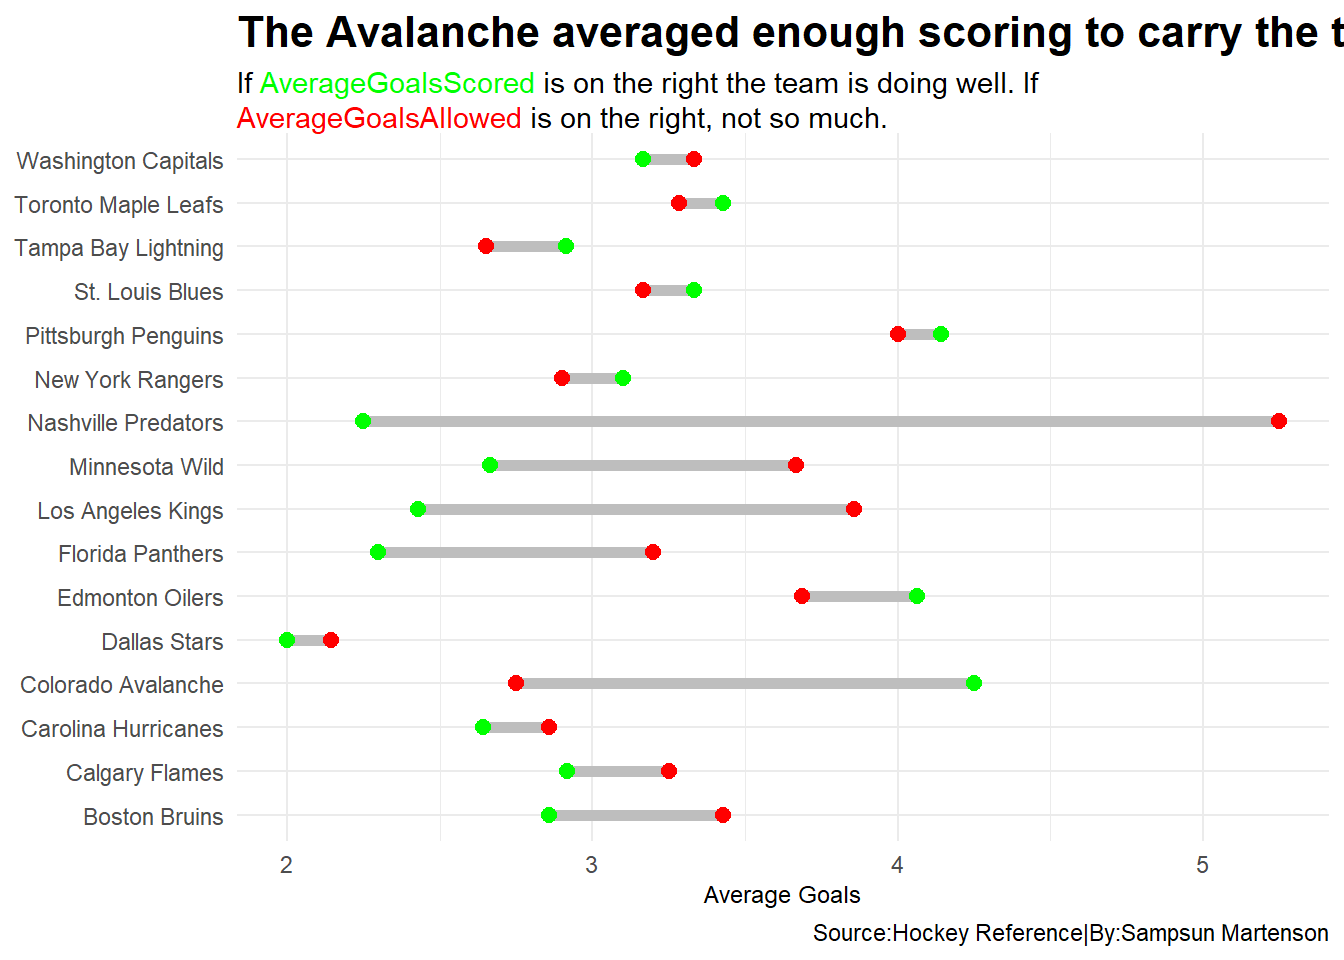
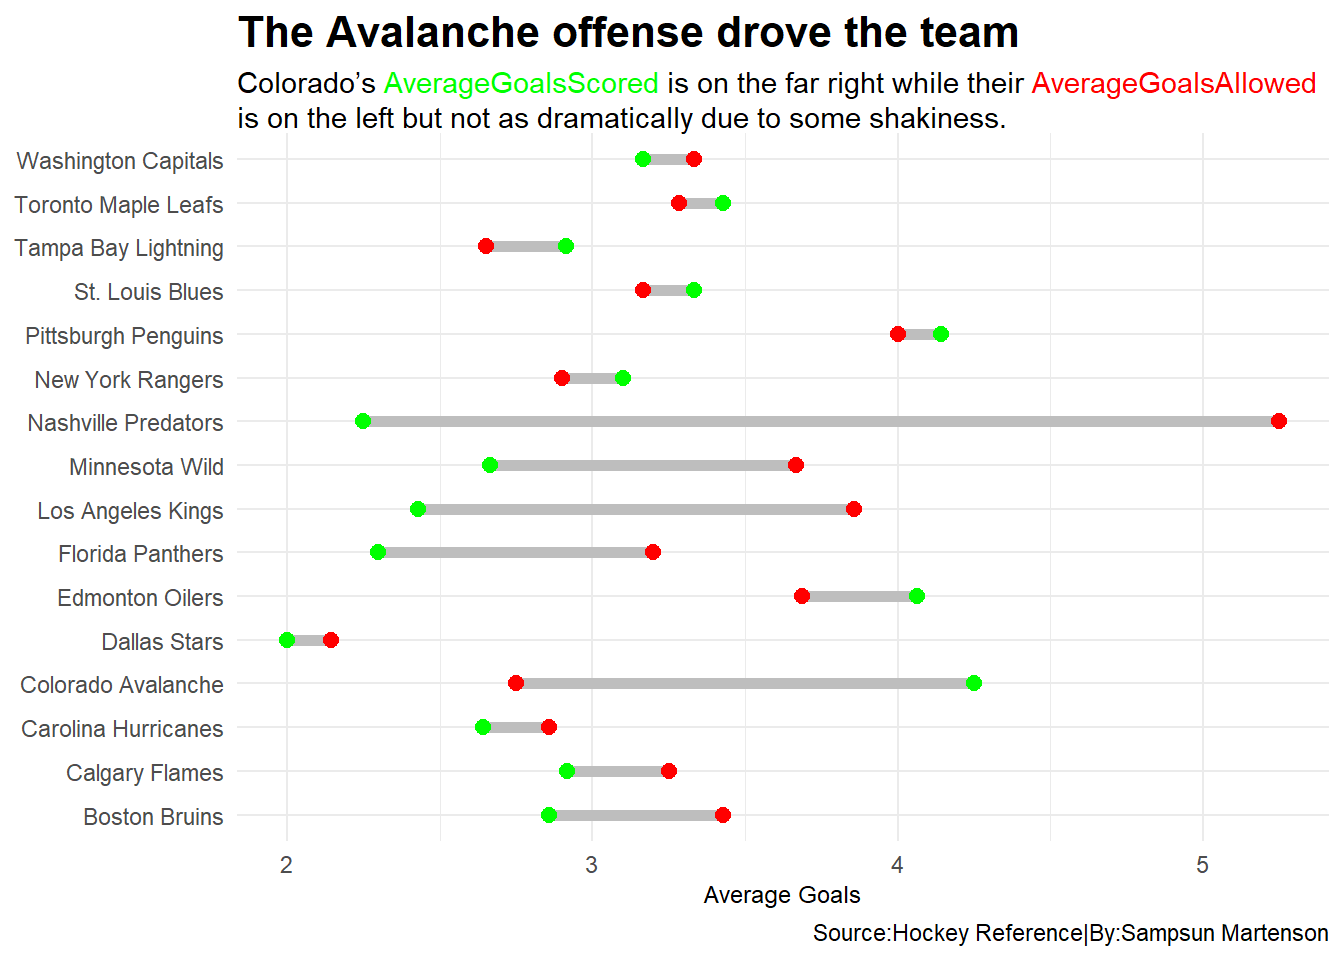
final

Changed region(s): [[0.1562, 0.0, 1.0, 0.1562]]

diff --git a/posts/avalanche-dominance/index.html b/posts/avalanche-dominance/index.html
@@ -214,7 +214,7 @@ code span.wa { color: #60a0b0; font-weight: bold; font-style: italic; } /* Warni
 
 
 <p>In 2022 the Colorado Avalanche hockey team had an incredibly dominant playoff run which ended with them lifting the most coveted trophy in the sport, the Stanley Cup. There were many different factors that contributed to the overall domination.</p>
-<p>The three main factors being overtime victories, point differential, and how the goal scoring was able to carry the team when the goalkeeping and defense may have let the team down.</p>
+<p>The three main factors being overtime victories, point differential, and how the goal scoring was able to carry the team when the goalkeeping and defense may have had some problems early on.</p>
 <p>To show how great the Avalanche were at winning in overtime let’s compare them to the other playoff teams in 2022.</p>
 <div class="cell">
 <details>
@@ -246,8 +246,8 @@ code span.wa { color: #60a0b0; font-weight: bold; font-style: italic; } /* Warni
 <span id="cb1-25"><a href="#cb1-25" aria-hidden="true" tabindex="-1"></a>  <span class="fu">labs</span>(</span>
 <span id="cb1-26"><a href="#cb1-26" aria-hidden="true" tabindex="-1"></a>    <span class="at">x =</span> <span class="st">"Team"</span>,</span>
 <span id="cb1-27"><a href="#cb1-27" aria-hidden="true" tabindex="-1"></a>    <span class="at">y =</span> <span class="st">"Overtime Wins"</span>,</span>
-<span id="cb1-28"><a href="#cb1-28" aria-hidden="true" tabindex="-1"></a>    <span class="at">title=</span><span class="st">"How good were the Avalanche at winning in overtime?"</span>, </span>
-<span id="cb1-29"><a href="#cb1-29" aria-hidden="true" tabindex="-1"></a>    <span class="at">subtitle=</span><span class="st">"Colorado had more overtime victories than any other playoff team in 2022."</span>,</span>
+<span id="cb1-28"><a href="#cb1-28" aria-hidden="true" tabindex="-1"></a>    <span class="at">title=</span><span class="st">"How good was Colorado at winning in overtime?"</span>, </span>
+<span id="cb1-29"><a href="#cb1-29" aria-hidden="true" tabindex="-1"></a>    <span class="at">subtitle=</span><span class="st">"The Avalanche won more overtime games than all other playoff teams in 2022."</span>,</span>
 <span id="cb1-30"><a href="#cb1-30" aria-hidden="true" tabindex="-1"></a>    <span class="at">caption=</span><span class="st">"Source: Hockey Reference|By: Sampsun Martenson"</span>) <span class="sc">+</span> </span>
 <span id="cb1-31"><a href="#cb1-31" aria-hidden="true" tabindex="-1"></a>  <span class="fu">theme</span>(</span>
 <span id="cb1-32"><a href="#cb1-32" aria-hidden="true" tabindex="-1"></a>    <span class="at">plot.title =</span> <span class="fu">element_text</span>(<span class="at">size =</span> <span class="dv">16</span>, <span class="at">face=</span> <span class="st">"bold"</span>),</span>
@@ -294,7 +294,7 @@ code span.wa { color: #60a0b0; font-weight: bold; font-style: italic; } /* Warni
 <span id="cb3-21"><a href="#cb3-21" aria-hidden="true" tabindex="-1"></a>  <span class="fu">labs</span>(</span>
 <span id="cb3-22"><a href="#cb3-22" aria-hidden="true" tabindex="-1"></a>    <span class="at">x =</span> <span class="st">"Goals For"</span>,</span>
 <span id="cb3-23"><a href="#cb3-23" aria-hidden="true" tabindex="-1"></a>    <span class="at">y =</span> <span class="st">"Goals Against"</span>,</span>
-<span id="cb3-24"><a href="#cb3-24" aria-hidden="true" tabindex="-1"></a>    <span class="at">title=</span><span class="st">"Colorado kept with the head pack defensively while exploding offensively."</span>, </span>
+<span id="cb3-24"><a href="#cb3-24" aria-hidden="true" tabindex="-1"></a>    <span class="at">title=</span><span class="st">"Colorado was good defensively while exploding offensively"</span>, </span>
 <span id="cb3-25"><a href="#cb3-25" aria-hidden="true" tabindex="-1"></a>    <span class="at">subtitle=</span><span class="st">"The Avalanche Goal Differential is by far the best of all playoff teams."</span>,</span>
 <span id="cb3-26"><a href="#cb3-26" aria-hidden="true" tabindex="-1"></a>    <span class="at">caption=</span><span class="st">"Source:Hockey Reference|By:Sampsun Martenson"</span>) <span class="sc">+</span> </span>
 <span id="cb3-27"><a href="#cb3-27" aria-hidden="true" tabindex="-1"></a>  <span class="fu">theme</span>(</span>
@@ -335,8 +335,8 @@ code span.wa { color: #60a0b0; font-weight: bold; font-style: italic; } /* Warni
 <span id="cb4-18"><a href="#cb4-18" aria-hidden="true" tabindex="-1"></a>  <span class="fu">labs</span>( </span>
 <span id="cb4-19"><a href="#cb4-19" aria-hidden="true" tabindex="-1"></a>    <span class="at">x =</span> <span class="st">"Average Goals"</span>,</span>
 <span id="cb4-20"><a href="#cb4-20" aria-hidden="true" tabindex="-1"></a>    <span class="at">y =</span> <span class="st">"Team"</span>,</span>
-<span id="cb4-21"><a href="#cb4-21" aria-hidden="true" tabindex="-1"></a>    <span class="at">title=</span><span class="st">"The Avalanche averaged enough scoring to carry the team"</span>, </span>
-<span id="cb4-22"><a href="#cb4-22" aria-hidden="true" tabindex="-1"></a>    <span class="at">subtitle =</span> <span class="st">"If &lt;span style = 'color:green;'&gt;AverageGoalsScored&lt;/span&gt; is on the right the team is doing well. If &lt;span style = 'color:red;'&gt;AverageGoalsAllowed&lt;/span&gt; is on the right, not so much."</span>,  </span>
+<span id="cb4-21"><a href="#cb4-21" aria-hidden="true" tabindex="-1"></a>    <span class="at">title=</span><span class="st">"The Avalanche offense drove the team"</span>, </span>
+<span id="cb4-22"><a href="#cb4-22" aria-hidden="true" tabindex="-1"></a>    <span class="at">subtitle =</span> <span class="st">"Colorado's &lt;span style = 'color:green;'&gt;AverageGoalsScored&lt;/span&gt; is on the far right while their &lt;span style = 'color:red;'&gt;AverageGoalsAllowed&lt;/span&gt; is on the left but not as dramatically due to some shakiness."</span>,  </span>
 <span id="cb4-23"><a href="#cb4-23" aria-hidden="true" tabindex="-1"></a>  <span class="at">caption=</span><span class="st">"Source:Hockey Reference|By:Sampsun Martenson"</span>) <span class="sc">+</span></span>
 <span id="cb4-24"><a href="#cb4-24" aria-hidden="true" tabindex="-1"></a>  <span class="fu">theme</span>(</span>
 <span id="cb4-25"><a href="#cb4-25" aria-hidden="true" tabindex="-1"></a>    <span class="at">plot.title =</span> <span class="fu">element_text</span>(<span class="at">size =</span> <span class="dv">16</span>, <span class="at">face=</span> <span class="st">"bold"</span>),</span>

diff --git a/index.html b/index.html
@@ -171,7 +171,7 @@ ul.task-list li input[type="checkbox"] {
 
 <div class="quarto-listing quarto-listing-container-default" id="listing-listing">
 <div class="list quarto-listing-default">
-<div class="quarto-post image-right" data-index="0" data-categories="hockey,colorado,analysis" data-listing-date-sort="1681621200000" data-listing-file-modified-sort="1681681372258" data-listing-reading-time-sort="5.085">
+<div class="quarto-post image-right" data-index="0" data-categories="hockey,colorado,analysis" data-listing-date-sort="1681621200000" data-listing-file-modified-sort="1681682535525" data-listing-reading-time-sort="5.07">
 <div class="thumbnail">
 <p><a href="./posts/avalanche-dominance/index.html"> <img src="./posts/avalanche-dominance/image.png" class="thumnail-image"> </a></p>
 </div>
